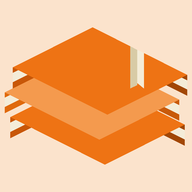
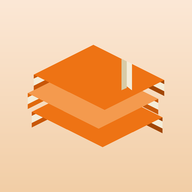
Icono Administrativo del Estado: estilo igual a Auxiliar/Constitucion (cache-bust v3)

diff --git a/index.html b/index.html
@@ -60,7 +60,7 @@
         <span>Auxiliar Administrativo</span>
       </a>
       <a class="sat-app s4" href="privacidad/administrativo-estado.html" data-app="administrativo" aria-label="Administrativo del Estado — información de la app">
-        <img src="assets/apps/administrativo-estado.png?v=2" alt="" width="56" height="56" />
+        <img src="assets/apps/administrativo-estado.png?v=3" alt="" width="56" height="56" />
         <span>Administrativo del Estado</span>
       </a>
     </div>
@@ -119,7 +119,7 @@
       </li>
       <li class="policy-item reveal">
         <a href="privacidad/administrativo-estado.html">
-          <img class="policy-icon" src="assets/apps/administrativo-estado.png?v=2" alt="" width="44" height="44" />
+          <img class="policy-icon" src="assets/apps/administrativo-estado.png?v=3" alt="" width="44" height="44" />
           <span class="policy-text">
             <span class="policy-name">Administrativo del Estado</span>
             <span class="policy-desc">Preparación de oposiciones</span>
@@ -221,7 +221,7 @@ var APPS = {
   },
   administrativo: {
     name: 'Administrativo del Estado', desc: 'Preparación de oposiciones',
-    icon: 'assets/apps/administrativo-estado.png?v=2', policy: 'privacidad/administrativo-estado.html',
+    icon: 'assets/apps/administrativo-estado.png?v=3', policy: 'privacidad/administrativo-estado.html',
     play: null, ios: null
   }
 };